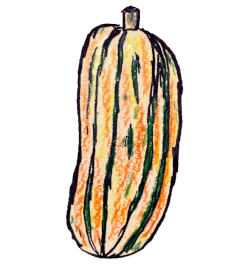
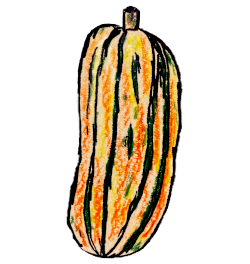
design overhaul
change drawings to PNGs with transparent backgrounds, change site
background color, other design tweaks

Changed region(s): [[0.252, 0.0303, 0.756, 1.0]]

diff --git a/src/styles/nav-bar.scss b/src/styles/nav-bar.scss
@@ -11,8 +11,9 @@ $lr-margin: 10vw;
     display: flex;
     justify-content: center;
     align-items: center;
-    background: rgb(115,172,101);
-    background: linear-gradient(90deg, rgba(115,172,101,1) 0%, rgb(99, 157, 86) 100%);
+    background-color: #506743;
+    // background: rgb(115,172,101);
+    // background: linear-gradient(90deg, rgba(115,172,101,1) 0%, rgb(99, 157, 86) 100%);
 
     .logo-container {
         margin-top: calc(0.4*var(--rvv));

diff --git a/src/styles/welcome.scss b/src/styles/welcome.scss
@@ -5,7 +5,6 @@
     flex-direction: column;
     align-items: center;
     gap: calc(0.6*var(--rvv));
-    background-color: white;
 
     .logo-container {
         width: 15vw;
@@ -22,7 +21,8 @@
         min-height: 500px;
 
         .welcome-drawing-img {
-            border: 0.5px solid black;
+            border: 1.5px solid black;
+            border-radius: 10px;
             height: 100%;
         }
     }

diff --git a/src/components/Home.js b/src/components/Home.js
@@ -2,8 +2,8 @@ import React, { useEffect, useState } from 'react';
 import uniqid from 'uniqid';
 
 import Flyer from '../components/Flyer';
-import PreviousText from '../img/previous.jpg';
-import UpcomingText from '../img/upcoming.jpg';
+import PreviousText from '../img/previous.png';
+import UpcomingText from '../img/upcoming.png';
 
 import '../styles/home.scss';
 

diff --git a/src/components/About.js b/src/components/About.js
@@ -4,8 +4,8 @@ import { Link } from 'react-router-dom';
 
 import '../styles/about.scss';
 
-import AboutDrawing1 from '../img/drawings/arugula.jpg';
-import AboutDrawing2 from '../img/drawings/fennel.jpg';
+import AboutDrawing1 from '../img/drawings/arugula.png';
+import AboutDrawing2 from '../img/drawings/fennel.png';
 
 export default function About() {
     

diff --git a/src/styles/app.scss b/src/styles/app.scss
@@ -39,6 +39,9 @@ html {
         min-width: 100vw;
         max-width: 100vw;
         overflow-x: hidden;
+        background: rgb(130,78,74);
+background: linear-gradient(143deg, rgba(130,78,74,0.1852678571428571) 0%, rgba(225,178,112,0.21875) 100%);
+        // background-color: rgba(234, 211, 211, 0.429);
 
         .site-wrapper {
             width: 100vw;

diff --git a/src/components/Footer.js b/src/components/Footer.js
@@ -2,8 +2,8 @@ import React from 'react';
 
 import '../styles/footer.scss';
 
-import FooterDrawing1 from '../img/drawings/apple.jpg';
-import FooterDrawing2 from '../img/drawings/apple-2.jpg';
+import FooterDrawing1 from '../img/drawings/apple.png';
+import FooterDrawing2 from '../img/drawings/apple-2.png';
 
 export default function Footer() {
     return (

diff --git a/src/styles/flyer.scss b/src/styles/flyer.scss
@@ -4,6 +4,7 @@
     display: flex;
     flex-direction: column;
     align-items: center;
+    gap: 5px;
 
     .event-text {
         text-align: center;
@@ -13,7 +14,8 @@
     }
 
     .event-flyer-img {
-        border: 0.5px solid black;
+        border: 1.5px solid black;
+        border-radius: 10px;
         height: 100%;
     }
 }

diff --git a/src/components/Welcome.js b/src/components/Welcome.js
@@ -4,7 +4,7 @@ import React from 'react';
 import '../styles/welcome.scss';
 
 // assets:
-import GracesLogo from '../img/graces-logo.jpg';
+import GracesLogo from '../img/graces-logo-nobg.png';
 import WelcomeDrawing from '../img/welcome-drawing.jpg';
 
 export default function Welcome(props) {
